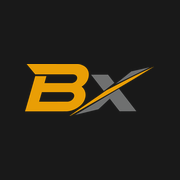
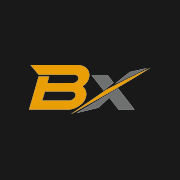
أيقونة الموقع: رمز BX من ملف الهوية الأصلي، بلا المربع الأسود (#27)
الأيقونات القديمة icon-192 وicon-512 وapple-touch كانت بلا قناة
شفافية (RGB)، فالمربع الأسود جزء من الصورة نفسها؛ وfavicon.ico إطار
واحد 48 بكسل يُصغّره المتصفح إلى 16، فيتهشّم.

المصدر الآن ملف المصمّم Bestolex/Logo/Icon/icon.svg من Drive
(تصدير إليستريتور، #e99e05 و#6f7070)، بمساراته كما هي بلا تعديل لون
أو منحنى.

رمز BX نسبته 2.5:1، فعند تبويب 16 بكسل يصير شريطاً بسمك 6.5 بكسل.
لذلك: إطار 16 في ملف ICO يحمل حرف B وحده (نسبته 1.357)، وإطارا 32
و48 يحملان BX كاملاً، وكل أيقونة أكبر BX. والمتصفحات التي تأخذ
favicon.svg ترسمه بدقة الجهاز، حيث يُقرأ BX.

- public/favicon.svg جديد: BX فيكتور.
- public/favicon.ico: ثلاثة إطارات، كل منها مرسوم من الفيكتور لا مُصغَّراً.
- icon-192 وicon-512 شفافتان، وapple-touch معتمة على #191919 بقصد
  لأن iOS يملأ الشفافية بالأسود.
- icon-maskable-512 جديدة بمنطقة أمان 80% لأن أندرويد يقصّ الأيقونة.
- site.webmanifest: theme_color من #E99E15 إلى لون الهوية #E99E05،
  وفصل أيقونة maskable عن any.

Claude-Session: https://claude.ai/code/session_012T6X261X9yrZrXhyTpd5bL

diff --git a/nuxt.config.ts b/nuxt.config.ts
@@ -129,8 +129,12 @@ export default defineNuxtConfig({
         { rel: 'preconnect', href: 'https://fonts.googleapis.com' },
         { rel: 'preconnect', href: 'https://fonts.gstatic.com', crossorigin: '' },
         { rel: 'stylesheet', href: 'https://fonts.googleapis.com/css2?family=Changa:wght@500;600;700;800&family=Tajawal:wght@300;400;500;700;800;900&display=swap' },
-        // Light icon set (item 30): ICO 16/32/48 (3 KB) instead of the 47 KB logo, plus app icons and a manifest
-        { rel: 'icon', href: '/favicon.ico', sizes: '48x48' },
+        // Icons drawn from the brand's own Logo/Icon/icon.svg (Illustrator paths, #E99E05 and #6F7070).
+        // The BX mark is 2.5:1, so at a 16 px tab it collapses to a 6 px smear: the ICO's 16 px frame
+        // carries the B alone and its 32/48 frames carry the full BX, and every larger icon is BX.
+        // Browsers that take the SVG render it at device resolution, where BX reads.
+        { rel: 'icon', type: 'image/svg+xml', href: '/favicon.svg' },
+        { rel: 'icon', href: '/favicon.ico', sizes: '48x48 32x32 16x16' },
         { rel: 'icon', type: 'image/png', sizes: '192x192', href: '/icon-192.png' },
         { rel: 'apple-touch-icon', sizes: '180x180', href: '/apple-touch-icon.png' },
         { rel: 'manifest', href: '/site.webmanifest' }
